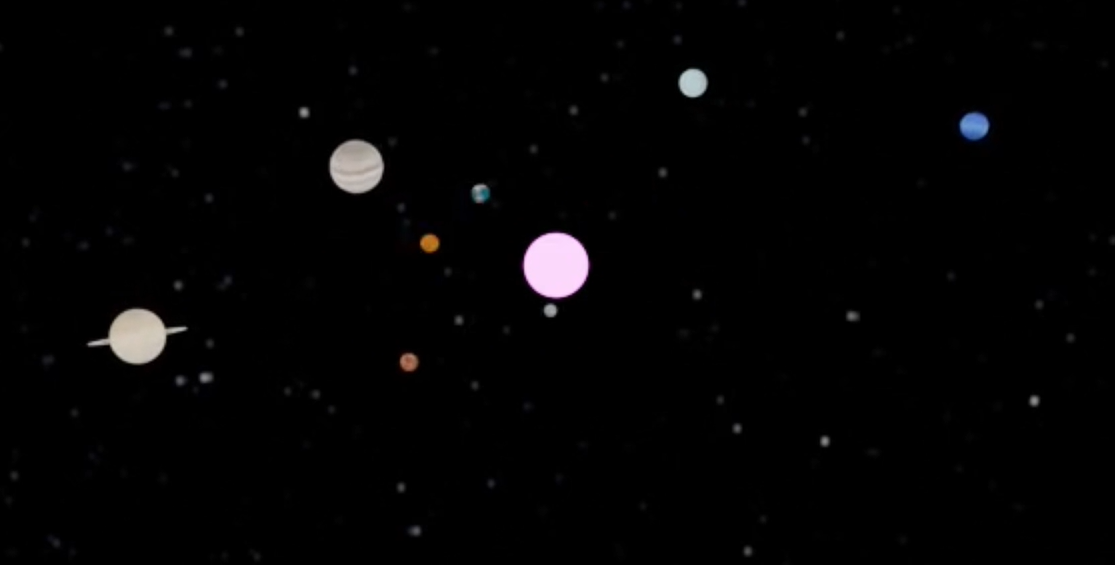
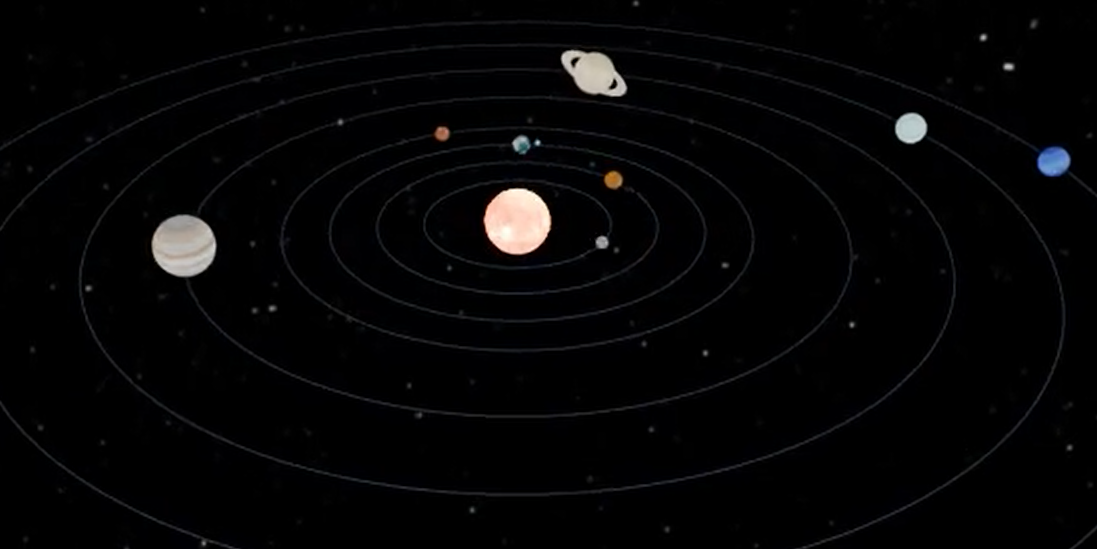
cursor

diff --git a/src/dragonCursor.js b/src/dragonCursor.js
@@ -1,0 +1,296 @@
+(function () {
+  const canvas = document.createElement('canvas');
+  canvas.id = 'dragon-cursor';
+  document.body.appendChild(canvas);
+
+  const ctx = canvas.getContext('2d');
+
+  function resize() {
+    canvas.width = window.innerWidth;
+    canvas.height = window.innerHeight;
+  }
+  resize();
+  window.addEventListener('resize', resize);
+
+  const SEGS = 30;
+  const SEG_LEN = 13;
+  const TEAL = [0, 230, 180];
+
+  /* Head geometry constants — must match drawTriangleHead */
+  const HEAD_SZ = 11;
+  const HEAD_TIP_OFFSET = HEAD_SZ * 2.8; /* distance from anchor to tip */
+
+  let mouse = { x: window.innerWidth / 2, y: window.innerHeight / 2 };
+  let trail = [];
+  for (let i = 0; i < SEGS; i++) {
+    trail.push({ x: mouse.x - i * SEG_LEN, y: mouse.y });
+  }
+
+  /* Click burst particles */
+  let bursts = [];
+
+  let tick = 0;
+
+  document.addEventListener('mousemove', e => {
+    mouse.x = e.clientX;
+    mouse.y = e.clientY;
+  });
+
+  document.addEventListener('mousedown', e => {
+    spawnBurst(e.clientX, e.clientY);
+  });
+
+  /* Touch support */
+  document.addEventListener('touchmove', e => {
+    mouse.x = e.touches[0].clientX;
+    mouse.y = e.touches[0].clientY;
+  }, { passive: true });
+
+  document.addEventListener('touchstart', e => {
+    mouse.x = e.touches[0].clientX;
+    mouse.y = e.touches[0].clientY;
+    spawnBurst(mouse.x, mouse.y);
+  }, { passive: true });
+
+  /* ── Burst on click ─────────────────────────────────────── */
+  function spawnBurst(x, y) {
+    const COUNT = 14;
+    for (let i = 0; i < COUNT; i++) {
+      const angle = (i / COUNT) * Math.PI * 2;
+      const speed = 1.8 + Math.random() * 3.2;
+      bursts.push({
+        x, y,
+        vx: Math.cos(angle) * speed,
+        vy: Math.sin(angle) * speed,
+        life: 1,
+        decay: 0.032 + Math.random() * 0.022,
+        r: 1.2 + Math.random() * 2.2,
+        ring: false
+      });
+    }
+    /* expanding ring */
+    bursts.push({ x, y, ring: true, radius: 2, life: 1, decay: 0.038 });
+  }
+
+  function updateDrawBursts() {
+    for (let i = bursts.length - 1; i >= 0; i--) {
+      const b = bursts[i];
+      b.life -= b.decay;
+      if (b.life <= 0) { bursts.splice(i, 1); continue; }
+
+      if (b.ring) {
+        b.radius += 4.5;
+        ctx.beginPath();
+        ctx.arc(b.x, b.y, b.radius, 0, Math.PI * 2);
+        ctx.strokeStyle = `rgba(${TEAL[0]},${TEAL[1]},${TEAL[2]},${b.life * 0.55})`;
+        ctx.lineWidth = 1.2;
+        ctx.shadowColor = teal(0.8);
+        ctx.shadowBlur = 10;
+        ctx.stroke();
+        ctx.shadowBlur = 0;
+      } else {
+        b.x += b.vx;
+        b.y += b.vy;
+        b.vx *= 0.91;
+        b.vy *= 0.91;
+        ctx.beginPath();
+        ctx.arc(b.x, b.y, b.r * b.life, 0, Math.PI * 2);
+        ctx.fillStyle = `rgba(${TEAL[0]},${TEAL[1]},${TEAL[2]},${b.life * 0.85})`;
+        ctx.shadowColor = teal(1);
+        ctx.shadowBlur = 8;
+        ctx.fill();
+        ctx.shadowBlur = 0;
+      }
+    }
+  }
+
+  /* ── Helpers ─────────────────────────────────────────────── */
+  function lerp(a, b, t) { return a + (b - a) * t; }
+  function teal(a) { return `rgba(${TEAL[0]},${TEAL[1]},${TEAL[2]},${a})`; }
+  function bone(b, a) { return `rgba(${b},${b},${b + 18},${a})`; }
+  function glow(color, blur) { ctx.shadowColor = color; ctx.shadowBlur = blur; }
+  function noGlow() { ctx.shadowBlur = 0; ctx.shadowColor = 'transparent'; }
+
+  /* ── Draw functions ──────────────────────────────────────── */
+  function drawBoneSegment(x, y, angle, sz, idx) {
+    const t = idx / SEGS;
+    const alpha = lerp(0.92, 0.45, t);
+    const br = Math.round(lerp(200, 120, t));
+    const kn = sz * 0.42;
+    const hw = sz * 0.38;
+    const hh = sz * 0.82;
+
+    ctx.save();
+    ctx.translate(x, y);
+    ctx.rotate(angle);
+
+    glow(teal(0.9), lerp(8, 3, t));
+    ctx.fillStyle = bone(br, alpha);
+    ctx.strokeStyle = teal(lerp(0.35, 0.1, t));
+    ctx.lineWidth = 0.5;
+
+    ctx.beginPath();
+    ctx.ellipse(0, -hh + kn, kn, kn * 0.65, 0, 0, Math.PI * 2);
+    ctx.fill(); ctx.stroke();
+
+    ctx.beginPath();
+    ctx.rect(-hw * 0.48, -hh + kn * 0.65, hw * 0.96, hh * 1.35);
+    ctx.fill(); ctx.stroke();
+
+    ctx.beginPath();
+    ctx.ellipse(0, hh * 0.5 - kn, kn, kn * 0.65, 0, 0, Math.PI * 2);
+    ctx.fill(); ctx.stroke();
+
+    ctx.fillStyle = teal(0.06);
+    ctx.fillRect(-hw * 0.28, -hh * 0.35, hw * 0.56, hh * 0.7);
+
+    noGlow();
+    ctx.restore();
+  }
+
+  function drawTriangleHead(anchorX, anchorY, angle, sz) {
+    ctx.save();
+    ctx.translate(anchorX, anchorY);
+    ctx.rotate(angle);
+
+    const L = sz * 2.8;
+    const W2 = sz * 1.1;
+
+    glow(teal(1), 22);
+    ctx.strokeStyle = teal(0.9);
+    ctx.lineWidth = 0.8;
+    ctx.fillStyle = bone(215, 0.97);
+
+    ctx.beginPath();
+    ctx.moveTo(L, 0);
+    ctx.lineTo(-sz * 0.2, -W2);
+    ctx.lineTo(-sz * 0.2, W2);
+    ctx.closePath();
+    ctx.fill();
+    ctx.stroke();
+
+    ctx.fillStyle = bone(180, 0.85);
+    ctx.beginPath();
+    ctx.moveTo(L, 0);
+    ctx.lineTo(L - sz * 0.6, -W2 * 0.35);
+    ctx.lineTo(L - sz * 0.6, W2 * 0.35);
+    ctx.closePath();
+    ctx.fill();
+
+    ctx.strokeStyle = teal(0.25);
+    ctx.lineWidth = 0.4;
+    ctx.beginPath(); ctx.moveTo(-sz * 0.2, 0); ctx.lineTo(L * 0.85, 0); ctx.stroke();
+    ctx.beginPath(); ctx.moveTo(sz * 0.6, -W2 * 0.55); ctx.lineTo(L * 0.7, 0); ctx.stroke();
+    ctx.beginPath(); ctx.moveTo(sz * 0.6, W2 * 0.55); ctx.lineTo(L * 0.7, 0); ctx.stroke();
+
+    noGlow();
+    ctx.restore();
+  }
+
+  function drawTailSpike(x, y, angle, sz) {
+    ctx.save();
+    ctx.translate(x, y);
+    ctx.rotate(angle + Math.PI);
+    glow(teal(0.6), 8);
+    ctx.fillStyle = bone(180, 0.75);
+    ctx.strokeStyle = teal(0.3);
+    ctx.lineWidth = 0.5;
+    ctx.beginPath();
+    ctx.moveTo(0, 0);
+    ctx.lineTo(sz * 0.45, -sz * 0.22);
+    ctx.lineTo(sz * 2.5, 0);
+    ctx.lineTo(sz * 0.45, sz * 0.22);
+    ctx.closePath();
+    ctx.fill(); ctx.stroke();
+    noGlow();
+    ctx.restore();
+  }
+
+  function drawHeadGlow(x, y) {
+    const g = ctx.createRadialGradient(x, y, 0, x, y, 70);
+    g.addColorStop(0, teal(0.12));
+    g.addColorStop(0.5, teal(0.04));
+    g.addColorStop(1, teal(0));
+    ctx.fillStyle = g;
+    ctx.beginPath();
+    ctx.arc(x, y, 70, 0, Math.PI * 2);
+    ctx.fill();
+  }
+
+  function drawTrailGlow() {
+    for (let i = 0; i < SEGS; i += 3) {
+      const t = i / SEGS;
+      const r = ctx.createRadialGradient(trail[i].x, trail[i].y, 0, trail[i].x, trail[i].y, 18);
+      r.addColorStop(0, teal(lerp(0.07, 0.02, t)));
+      r.addColorStop(1, teal(0));
+      ctx.fillStyle = r;
+      ctx.beginPath();
+      ctx.arc(trail[i].x, trail[i].y, 18, 0, Math.PI * 2);
+      ctx.fill();
+    }
+  }
+
+  /* ── Main loop ───────────────────────────────────────────── */
+  function animate() {
+    requestAnimationFrame(animate);
+    tick++;
+
+    ctx.clearRect(0, 0, canvas.width, canvas.height);
+
+    const rawAngle = Math.atan2(
+      mouse.y - trail[0].y,
+      mouse.x - trail[0].x
+    );
+
+    const targetX = mouse.x - Math.cos(rawAngle) * HEAD_TIP_OFFSET;
+    const targetY = mouse.y - Math.sin(rawAngle) * HEAD_TIP_OFFSET;
+
+    const dx = targetX - trail[0].x;
+    const dy = targetY - trail[0].y;
+    const d = Math.sqrt(dx * dx + dy * dy);
+    if (d > 0.5) {
+      trail[0].x += dx * 0.25;
+      trail[0].y += dy * 0.25;
+    }
+
+    for (let i = 1; i < SEGS; i++) {
+      const px = trail[i - 1].x - trail[i].x;
+      const py = trail[i - 1].y - trail[i].y;
+      const pd = Math.sqrt(px * px + py * py);
+      if (pd > SEG_LEN) {
+        const f = (pd - SEG_LEN) / pd;
+        trail[i].x += px * f * 0.55;
+        trail[i].y += py * f * 0.55;
+      }
+    }
+
+    drawTrailGlow();
+    drawHeadGlow(mouse.x, mouse.y);
+
+    const last = SEGS - 1;
+    const tailAngle = Math.atan2(
+      trail[last].y - trail[last - 1].y,
+      trail[last].x - trail[last - 1].x
+    );
+    drawTailSpike(trail[last].x, trail[last].y, tailAngle, 6);
+
+    for (let i = SEGS - 1; i >= 1; i--) {
+      const nx = trail[i - 1].x - trail[i].x;
+      const ny = trail[i - 1].y - trail[i].y;
+      const angle = Math.atan2(ny, nx);
+      const sz = lerp(9, 3, i / SEGS);
+      drawBoneSegment(trail[i].x, trail[i].y, angle, sz, i);
+    }
+
+    /* Head: anchor is trail[0], tip lands on mouse */
+    const headAngle = Math.atan2(
+      mouse.y - trail[0].y,
+      mouse.x - trail[0].x
+    );
+    drawTriangleHead(trail[0].x, trail[0].y, headAngle, HEAD_SZ);
+
+    updateDrawBursts();
+  }
+
+  animate();
+})();

diff --git a/index.html b/index.html
@@ -36,10 +36,10 @@
                 <p class="timecode" id="timecode" aria-hidden="true">00:00:00:00</p>
 
                 <div class="hero-copy">
-                    <p class="eyebrow">BSIT-NS-2A &middot; Multimedia &amp; Authoring</p>
-                    <h1>Donn Torres</h1>
-                    <p class="hero-title">IT Student</p>
-                    <p class="hero-text">A project portfolio focused on multimedia and authoring &mdash; frame-by-frame rotoscope animation and a code-built solar system.</p>
+                    <p class="eyebrow">IT Student &middot; BSIT-NS-2A</p>
+                    <h1>Multimedia &amp; Authoring</h1>
+                    <p class="hero-title">By: Donn Torres</p>
+                    <p class="hero-text">A project portfolio focused on multimedia and authoring, frame-by-frame rotoscope animation and a code-built solar system.</p>
                     <div class="hero-actions">
                         <a class="btn btn-primary" href="Portfolio/rotoscope.html">Watch Rotoscope</a>
                         <a class="btn btn-secondary" href="Portfolio/solarsystem.html">Explore Solar System</a>
@@ -131,6 +131,7 @@
     }, 1000 / 24);
 })();
 </script>
+<script src="src/dragonCursor.js"></script>
 
 </body>
 </html>

diff --git a/src/style.css b/src/style.css
@@ -1073,3 +1073,20 @@ textarea {
         transition-duration: 0.001ms !important;
     }
 }
+
+/* ============================================================
+   Dragon cursor
+   ============================================================ */
+* {
+    cursor: none !important;
+}
+
+#dragon-cursor {
+    position: fixed;
+    top: 0;
+    left: 0;
+    width: 100vw;
+    height: 100vh;
+    pointer-events: none;
+    z-index: 99999;
+}

diff --git a/Portfolio/solarsystem.html b/Portfolio/solarsystem.html
@@ -225,5 +225,6 @@
     })();
     </script>
     <script src="../src/ageCalculator.js"></script>
+    <script src="../src/dragonCursor.js"></script>
 </body>
 </html>

diff --git a/Portfolio/rotoscope.html b/Portfolio/rotoscope.html
@@ -316,5 +316,6 @@
         }, 1000 / 24);
     })();
     </script>
+    <script src="../src/dragonCursor.js"></script>
 </body>
 </html>
